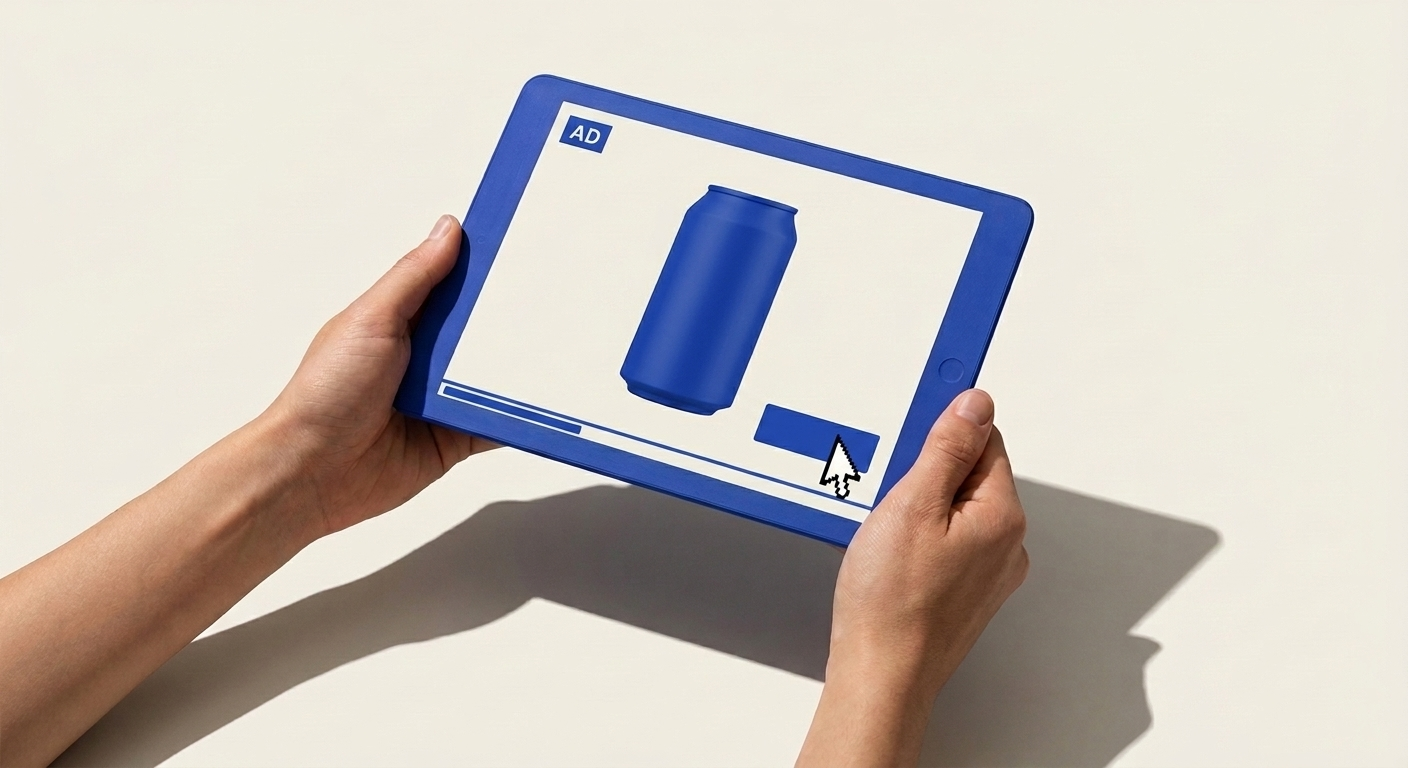
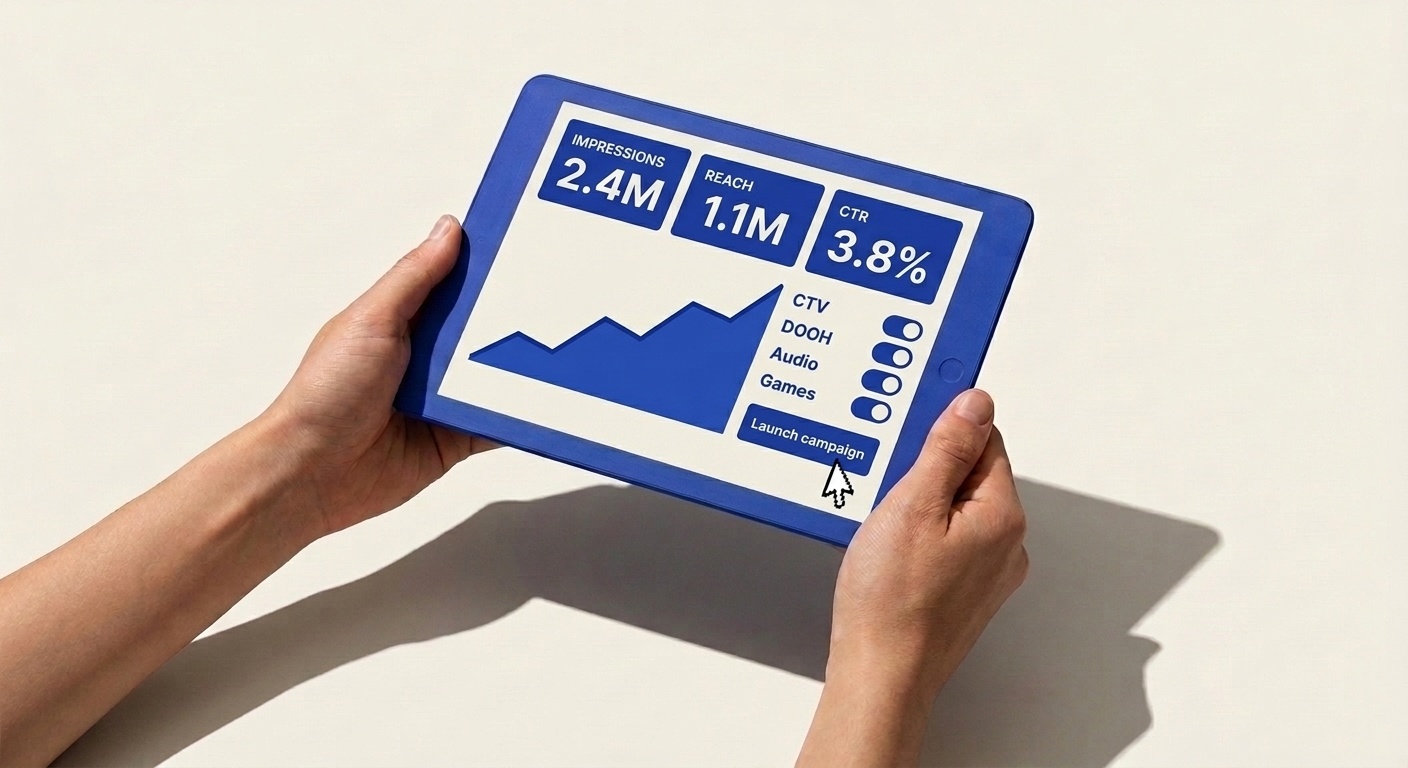
Media Activation image: tablet shows an ad campaign dashboard

Changed region(s): [[0.3125, 0.1562, 0.6875, 0.6875]]

diff --git a/index.html b/index.html
@@ -688,7 +688,7 @@ h1, h2, h3, .display, p, li, .label { text-wrap: pretty; }
 
     <article class="service" aria-labelledby="s3">
       <figure class="service__media">
-        <img src="assets/img/media.jpg" alt="Hands holding a tablet playing a video ad, with a cursor clicking the call-to-action button" data-dither loading="lazy" width="1408" height="768">
+        <img src="assets/img/media.jpg" alt="Hands holding a tablet showing an ad campaign dashboard with impressions, reach, CTR and channel toggles" data-dither loading="lazy" width="1408" height="768">
       </figure>
       <div class="service__body">
         <div>
